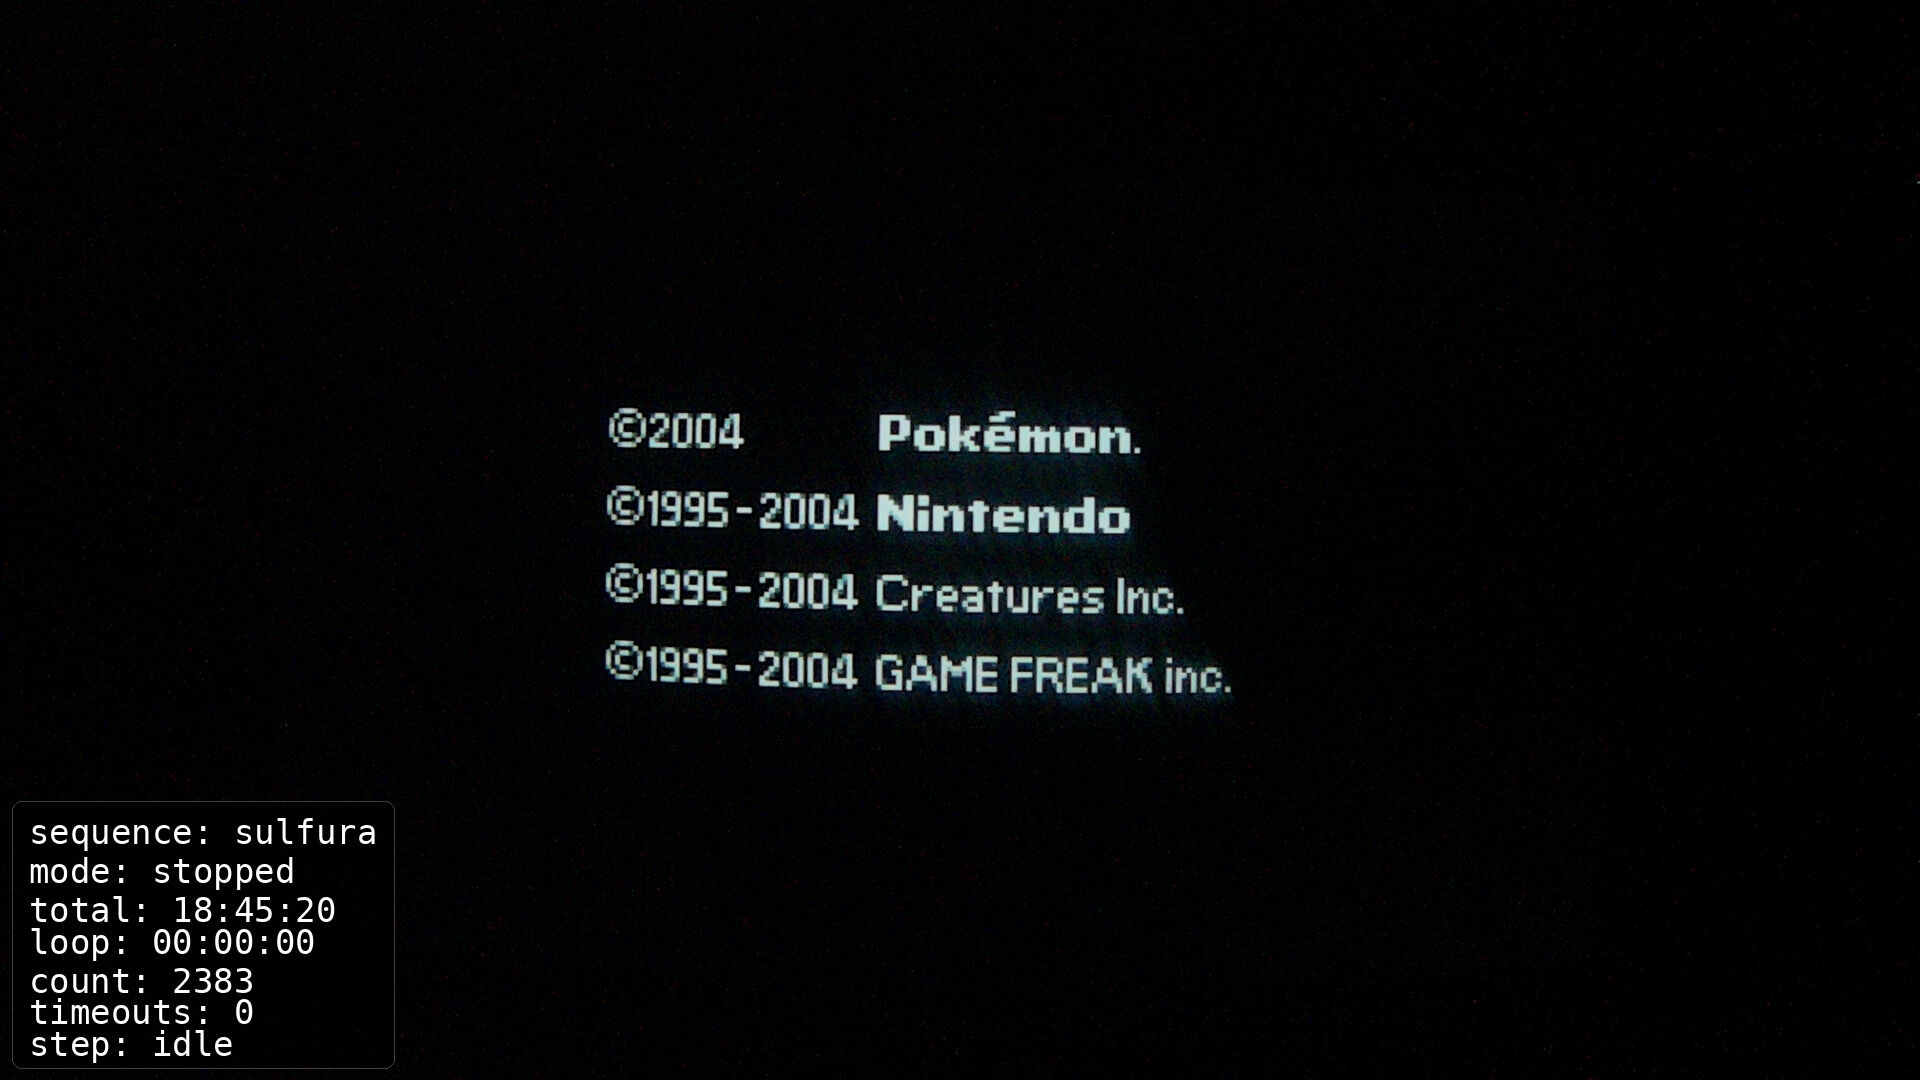
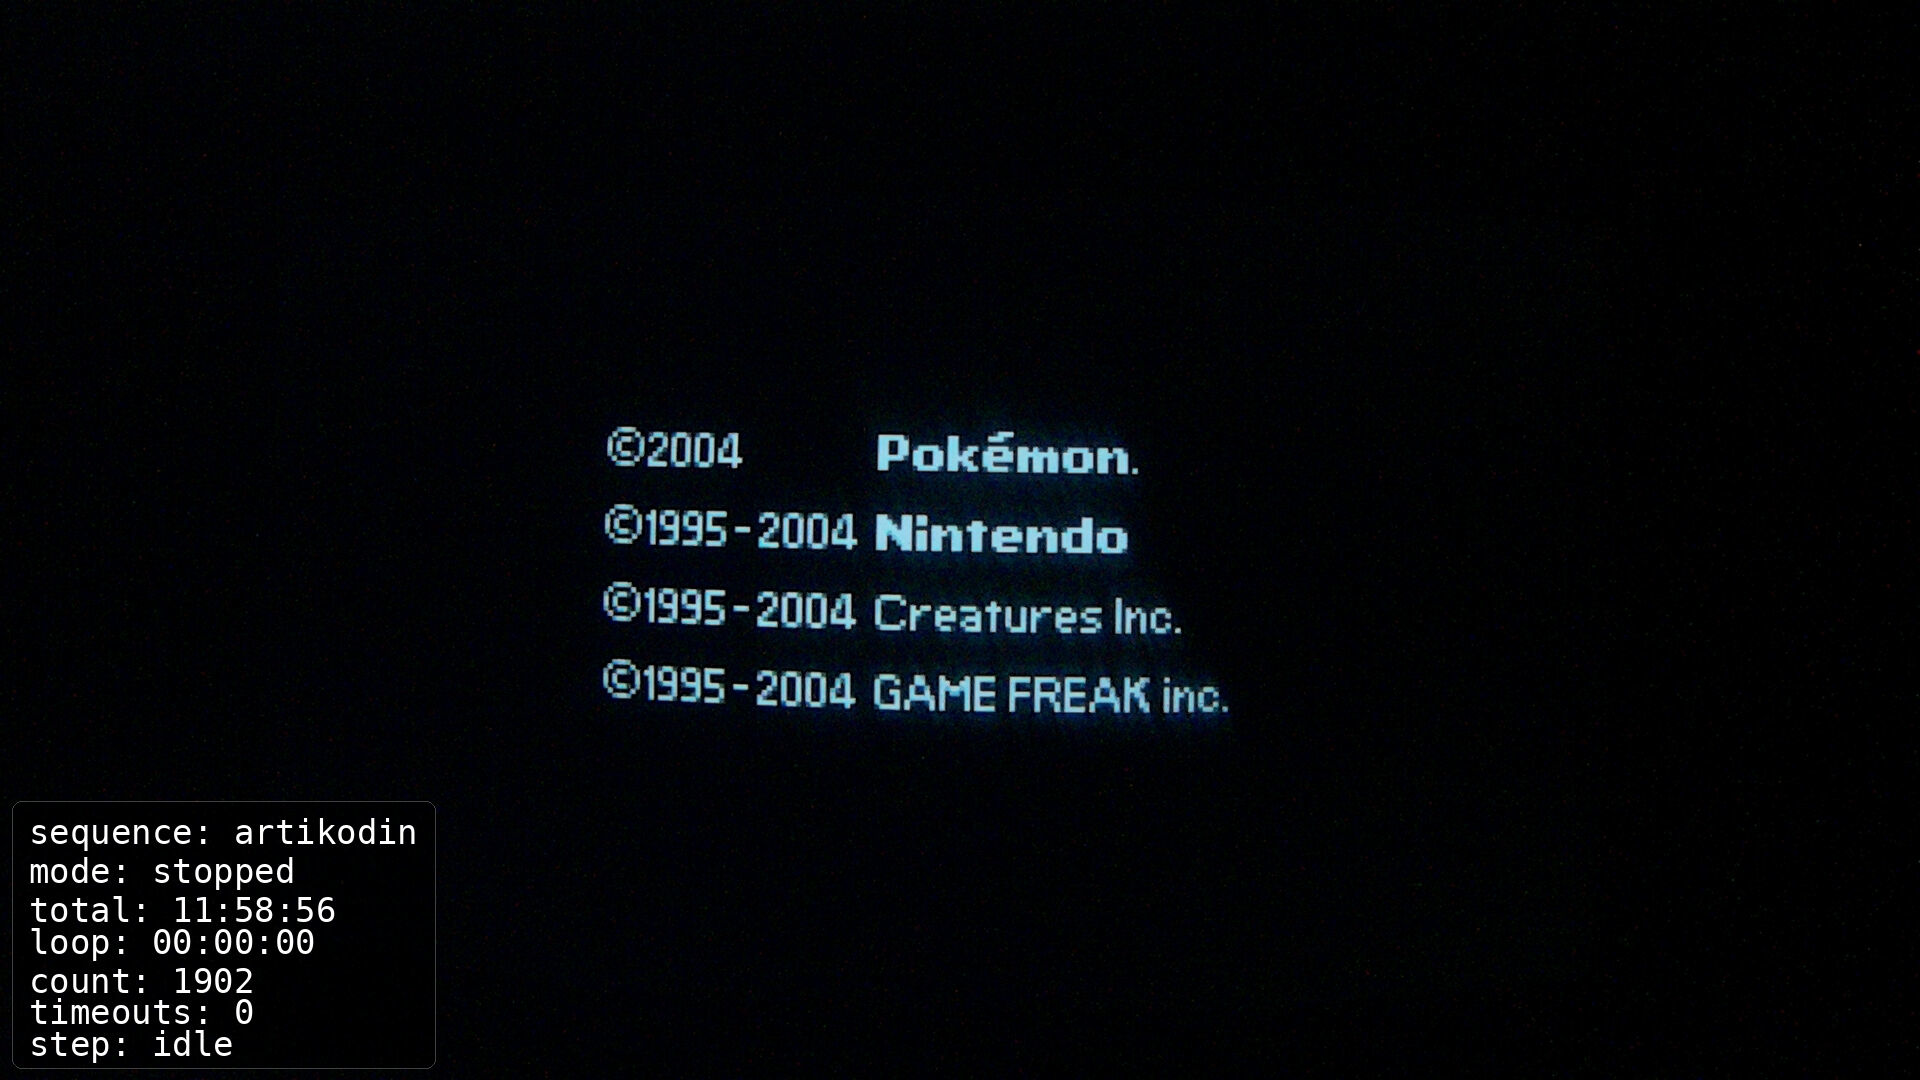
chore: fixed camera auto-settings and re-calibrated rois

diff --git a/src/vision/capture.py b/src/vision/capture.py
@@ -1,5 +1,6 @@
 from __future__ import annotations
 
+import json
 from dataclasses import dataclass, field
 from pathlib import Path
 from threading import Event, Lock, Thread
@@ -48,6 +49,8 @@ class CameraCapture:
     height: int = 1080
     fps: int = 20
     warmup: float = 2.0
+    lock_auto_controls: bool = True
+    controls_path: Path | None = None
     _camera: Any | None = field(init=False, default=None, repr=False)
     _frame_lock: Lock = field(init=False, default_factory=Lock, repr=False)
     _latest_frame: Any | None = field(init=False, default=None, repr=False)
@@ -90,8 +93,11 @@ class CameraCapture:
         camera.configure(config)
         camera.start()
 
+        controls_loaded = self._apply_saved_controls(camera)
         if self.warmup > 0:
             sleep(self.warmup)
+        if self.lock_auto_controls and not controls_loaded:
+            self._lock_stable_controls(camera)
 
         self._camera = camera
         self._stop_event.clear()
@@ -143,6 +149,154 @@ class CameraCapture:
         if self._camera is None:
             raise RuntimeError("Camera is not running. Call start() first.")
 
+    def _apply_saved_controls(self, camera: Any) -> bool:
+        if self.controls_path is None or not self.controls_path.exists():
+            return False
+
+        try:
+            data = json.loads(self.controls_path.read_text(encoding="utf-8"))
+        except Exception as exc:
+            print(f"Camera controls file ignored: could not read {self.controls_path} ({exc}).")
+            return False
+        if not isinstance(data, dict):
+            print(f"Camera controls file ignored: {self.controls_path} did not contain a JSON object.")
+            return False
+
+        controls = getattr(camera, "camera_controls", {}) or {}
+        locked_controls: dict[str, Any] = {}
+        if "AeEnable" in controls:
+            locked_controls["AeEnable"] = False
+        if "AwbEnable" in controls:
+            locked_controls["AwbEnable"] = False
+
+        exposure_time = data.get("ExposureTime")
+        if exposure_time is not None and "ExposureTime" in controls:
+            locked_controls["ExposureTime"] = int(exposure_time)
+
+        analogue_gain = data.get("AnalogueGain")
+        if analogue_gain is not None and "AnalogueGain" in controls:
+            locked_controls["AnalogueGain"] = float(analogue_gain)
+
+        colour_gains = data.get("ColourGains")
+        if (
+            isinstance(colour_gains, list)
+            and len(colour_gains) == 2
+            and "ColourGains" in controls
+        ):
+            locked_controls["ColourGains"] = (
+                float(colour_gains[0]),
+                float(colour_gains[1]),
+            )
+
+        if not locked_controls:
+            print(f"Camera controls file ignored: no applicable controls found in {self.controls_path}.")
+            return False
+
+        try:
+            camera.set_controls(locked_controls)
+            sleep(0.2)
+        except Exception as exc:
+            print(f"Camera controls file ignored: could not apply {self.controls_path} ({exc}).")
+            return False
+
+        detail_parts: list[str] = []
+        if "ExposureTime" in locked_controls:
+            detail_parts.append(f"ExposureTime={locked_controls['ExposureTime']}")
+        if "AnalogueGain" in locked_controls:
+            detail_parts.append(f"AnalogueGain={locked_controls['AnalogueGain']:.4f}")
+        if "ColourGains" in locked_controls:
+            cg = locked_controls["ColourGains"]
+            detail_parts.append(f"ColourGains=({cg[0]:.4f}, {cg[1]:.4f})")
+        print(
+            f"Applied saved camera controls from {self.controls_path}."
+            + (f" {' '.join(detail_parts)}" if detail_parts else "")
+        )
+        return True
+
+    def _lock_stable_controls(self, camera: Any) -> None:
+        try:
+            controls = getattr(camera, "camera_controls", {}) or {}
+            metadata = camera.capture_metadata()
+        except Exception as exc:
+            print(f"Camera auto-lock skipped: could not read metadata ({exc}).")
+            return
+
+        locked_controls: dict[str, Any] = {}
+        if "AeEnable" in controls:
+            locked_controls["AeEnable"] = False
+
+        exposure_time = metadata.get("ExposureTime")
+        if exposure_time is not None and "ExposureTime" in controls:
+            locked_controls["ExposureTime"] = int(exposure_time)
+
+        analogue_gain = metadata.get("AnalogueGain")
+        if analogue_gain is not None and "AnalogueGain" in controls:
+            locked_controls["AnalogueGain"] = float(analogue_gain)
+
+        if "AwbEnable" in controls:
+            locked_controls["AwbEnable"] = False
+
+        colour_gains = metadata.get("ColourGains")
+        if (
+            isinstance(colour_gains, (tuple, list))
+            and len(colour_gains) == 2
+            and "ColourGains" in controls
+        ):
+            locked_controls["ColourGains"] = (
+                float(colour_gains[0]),
+                float(colour_gains[1]),
+            )
+
+        if not locked_controls:
+            print("Camera auto-lock skipped: no matching AE/AWB controls were available.")
+            return
+
+        try:
+            camera.set_controls(locked_controls)
+            sleep(0.2)
+        except Exception as exc:
+            print(f"Camera auto-lock failed: {exc}")
+            return
+
+        detail_parts: list[str] = []
+        if "ExposureTime" in locked_controls:
+            detail_parts.append(f"ExposureTime={locked_controls['ExposureTime']}")
+        if "AnalogueGain" in locked_controls:
+            detail_parts.append(f"AnalogueGain={locked_controls['AnalogueGain']:.4f}")
+        if "ColourGains" in locked_controls:
+            cg = locked_controls["ColourGains"]
+            detail_parts.append(f"ColourGains=({cg[0]:.4f}, {cg[1]:.4f})")
+        print(
+            "Camera auto controls locked."
+            + (f" {' '.join(detail_parts)}" if detail_parts else "")
+        )
+        if self.controls_path is not None:
+            self._save_controls_profile(locked_controls)
+
+    def _save_controls_profile(self, locked_controls: dict[str, Any]) -> None:
+        if self.controls_path is None:
+            return
+
+        payload: dict[str, Any] = {}
+        if "ExposureTime" in locked_controls:
+            payload["ExposureTime"] = int(locked_controls["ExposureTime"])
+        if "AnalogueGain" in locked_controls:
+            payload["AnalogueGain"] = float(locked_controls["AnalogueGain"])
+        if "ColourGains" in locked_controls:
+            colour_gains = locked_controls["ColourGains"]
+            payload["ColourGains"] = [float(colour_gains[0]), float(colour_gains[1])]
+
+        if not payload:
+            return
+
+        payload["camera_index"] = self.camera_index
+        payload["width"] = self.width
+        payload["height"] = self.height
+        payload["fps"] = self.fps
+        self.controls_path.parent.mkdir(parents=True, exist_ok=True)
+        self.controls_path.write_text(json.dumps(payload, indent=2, sort_keys=True) + "\n", encoding="utf-8")
+        print(f"Saved camera controls to {self.controls_path}.")
+
     def _reader_loop(self) -> None:
         retry_delay = 0.05
         while not self._stop_event.is_set():
@@ -166,6 +320,8 @@ def open_capture(
     height: int = 1080,
     fps: int = 20,
     warmup: float = 2.0,
+    lock_auto_controls: bool = True,
+    controls_path: str | Path | None = None,
 ) -> CameraCapture:
     return CameraCapture(
         camera_index=camera_index,
@@ -173,4 +329,6 @@ def open_capture(
         height=height,
         fps=fps,
         warmup=warmup,
+        lock_auto_controls=lock_auto_controls,
+        controls_path=None if controls_path in (None, "") else Path(controls_path),
     ).start()

diff --git a/src/automation/persistence.py b/src/automation/persistence.py
@@ -25,9 +25,13 @@ class _StatsRecord:
     status: str = "stopped"
     last_outcome: str | None = None
     updated_at: str | None = None
+    failed_loop_score_history: dict[str, list[float]] = field(default_factory=dict)
 
     @classmethod
     def from_dict(cls, data: dict[str, object]) -> _StatsRecord:
+        failed_history_raw = data.get("failed_loop_score_history", {})
+        if not isinstance(failed_history_raw, dict):
+            failed_history_raw = {}
         return cls(
             loop_counter=int(data.get("loop_counter", 0)),
             total_elapsed_seconds=float(data.get("total_elapsed_seconds", 0.0)),
@@ -38,6 +42,11 @@ class _StatsRecord:
             status=str(data.get("status", "stopped")),
             last_outcome=data.get("last_outcome"),  # type: ignore[arg-type]
             updated_at=data.get("updated_at"),  # type: ignore[arg-type]
+            failed_loop_score_history={
+                str(state_name): [float(score) for score in state_scores if score is not None]
+                for state_name, state_scores in failed_history_raw.items()
+                if isinstance(state_scores, list)
+            },
         )
 
     def to_dict(self) -> dict[str, object]:
@@ -49,6 +58,7 @@ class _StatsRecord:
             "status": self.status,
             "last_outcome": self.last_outcome,
             "updated_at": self.updated_at,
+            "failed_loop_score_history": self.failed_loop_score_history,
         }
 
     def snapshot(self) -> LoopStatsSnapshot:
@@ -205,6 +215,23 @@ class PersistentLoopStatsStore:
 
     def reset(self) -> None:
         self.sequences = {}
+        self.save()
+
+    def failed_loop_score_history(self, sequence_id: str, state_name: str) -> list[float]:
+        record = self.sequences.get(sequence_id)
+        if record is None:
+            return []
+        return list(record.failed_loop_score_history.get(state_name, ()))
+
+    def set_failed_loop_score_history(
+        self,
+        sequence_id: str,
+        state_name: str,
+        scores: list[float],
+    ) -> None:
+        record = self._record(sequence_id)
+        record.failed_loop_score_history[state_name] = [float(score) for score in scores]
+        record.updated_at = _utcnow().isoformat()
         self.save()
 
     def _record(self, sequence_id: str) -> _StatsRecord:

diff --git a/src/automation/camera_loop.py b/src/automation/camera_loop.py
@@ -613,14 +613,16 @@ class CameraLoopRunner:
         )
 
         if predicted_failed is None:
-            if loop_score <= threshold:
+            bootstrap_threshold = threshold + ok_step
+            if loop_score <= bootstrap_threshold:
                 winner_name = next_state_name
-                reason = "bootstrap_failed_static_threshold"
+                reason = "bootstrap_failed_static_plus_ok_step"
             else:
                 winner_name = state.timeout_next_state
-                reason = "bootstrap_ok_above_static_threshold"
+                reason = "bootstrap_ok_above_static_plus_ok_step"
             detail = (
                 f"score={loop_score:.4f}, static_th={threshold:.4f}, "
+                f"bootstrap_th={bootstrap_threshold:.4f}, ok_step={ok_step:.4f}, "
                 f"criterion={reason}, observed={len(observed_scores)}"
             )
         else:
@@ -672,7 +674,18 @@ class CameraLoopRunner:
         sequence_id: str,
         state: StateSpec,
     ) -> tuple[float | None, float, float | None]:
-        history = list(self._failed_loop_score_history.get(sequence_id, {}).get(state.name, ()))
+        histories = self._failed_loop_score_history.setdefault(sequence_id, {})
+        history_deque = histories.get(state.name)
+        if history_deque is None or not history_deque:
+            persisted = self.stats.failed_loop_score_history(sequence_id, state.name)
+            if persisted:
+                history_deque = deque(
+                    persisted[-state.decision_history_window:],
+                    maxlen=max(1, state.decision_history_window),
+                )
+                histories[state.name] = history_deque
+
+        history = list(history_deque or ())
         if not history:
             return None, 0.0, None
 
@@ -1158,6 +1171,7 @@ class CameraLoopRunner:
             history = deque(existing[-maxlen:], maxlen=maxlen)
             histories[state_name] = history
         history.append(score)
+        self.stats.set_failed_loop_score_history(sequence_id, state_name, list(history))
 
     def _promote_loop_decision_scores(self, sequence_id: str) -> None:
         current = self._current_loop_decision_scores.get(sequence_id, {})

diff --git a/scripts/run_camera_loop.py b/scripts/run_camera_loop.py
@@ -60,6 +60,17 @@ def build_parser() -> argparse.ArgumentParser:
     parser.add_argument("--fps", type=int, default=20)
     parser.add_argument("--warmup", type=float, default=2.0)
     parser.add_argument(
+        "--camera-controls-file",
+        type=Path,
+        default=ROOT / "debug" / "camera" / "camera_controls.json",
+        help="JSON file containing fixed camera exposure/white-balance controls.",
+    )
+    parser.add_argument(
+        "--recalibrate-camera-controls",
+        action="store_true",
+        help="Ignore any saved camera controls once, then save freshly locked values.",
+    )
+    parser.add_argument(
         "--adapter-path",
         type=str,
         default=None,
@@ -302,6 +313,9 @@ def main() -> int:
     if args.action != "run":
         return _handle_control_action(args)
 
+    if args.recalibrate_camera_controls and args.camera_controls_file.exists():
+        args.camera_controls_file.unlink()
+
     lock_handle = _acquire_service_lock(args.service_lock)
     if lock_handle is None:
         return 2
@@ -317,6 +331,7 @@ def main() -> int:
         height=args.height,
         fps=args.fps,
         warmup=args.warmup,
+        controls_path=args.camera_controls_file,
     )
 
     controller = NxbtBackend(

diff --git a/scripts/camera_debug.py b/scripts/camera_debug.py
@@ -24,6 +24,17 @@ def build_parser() -> argparse.ArgumentParser:
     common.add_argument("--height", type=int, default=1080)
     common.add_argument("--fps", type=int, default=20)
     common.add_argument("--warmup", type=float, default=2.0)
+    common.add_argument(
+        "--camera-controls-file",
+        type=Path,
+        default=ROOT / "debug" / "camera" / "camera_controls.json",
+        help="JSON file containing fixed camera exposure/white-balance controls.",
+    )
+    common.add_argument(
+        "--recalibrate-camera-controls",
+        action="store_true",
+        help="Ignore any saved camera controls once, then save freshly locked values.",
+    )
 
     subparsers = parser.add_subparsers(dest="command", required=True)
 
@@ -94,12 +105,15 @@ def _guess_ip_addresses() -> list[str]:
 
 
 def _capture(args: argparse.Namespace):
+    if args.recalibrate_camera_controls and args.camera_controls_file.exists():
+        args.camera_controls_file.unlink()
     return open_capture(
         camera_index=args.camera_index,
         width=args.width,
         height=args.height,
         fps=args.fps,
         warmup=args.warmup,
+        controls_path=args.camera_controls_file,
     )
 
 

diff --git a/README.md b/README.md
@@ -133,7 +133,7 @@ State fields:
 - `decision_margin`: number. Minimum score gap between first and second place required by `decision_mode: "best_score"`. Default: `0.0`.
 - `decision_history_window`: integer. Only used by `decision_mode: "loop_baseline_step"`. Number of recent failed loop scores to keep for the learned failed baseline. Default: `9`.
 - `decision_trend_window`: integer. Only used by `decision_mode: "loop_baseline_step"`. Number of recent failed loop-to-loop deltas used to estimate slow drift. Default: `5`.
-- `decision_ok_step`: number. Only used by `decision_mode: "loop_baseline_step"`. Minimum absolute jump above the predicted failed score required to classify the loop as `timeout_next_state`. Default: `0.0`.
+- `decision_ok_step`: number. Only used by `decision_mode: "loop_baseline_step"`. Minimum absolute jump above the predicted failed score required to classify the loop as `timeout_next_state`. During bootstrap, when no failed baseline has been learned yet, this same value is added to the static threshold before allowing `timeout_next_state`. Default: `0.0`.
 - `reset_loop`: boolean. If `true`, reaching this state increments the loop counter, saves a ROI snapshot, and restarts the sequence from the initial state. Used on failure states. Default: `false`.
 - `notification`: string. `""` (default): no notification. `"mail"`: sends an email notification when this state is reached. Used on terminal success states.
 
